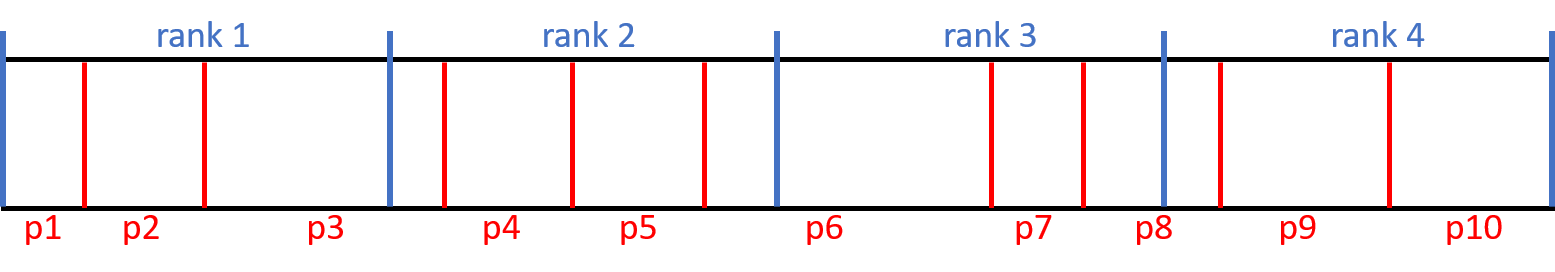
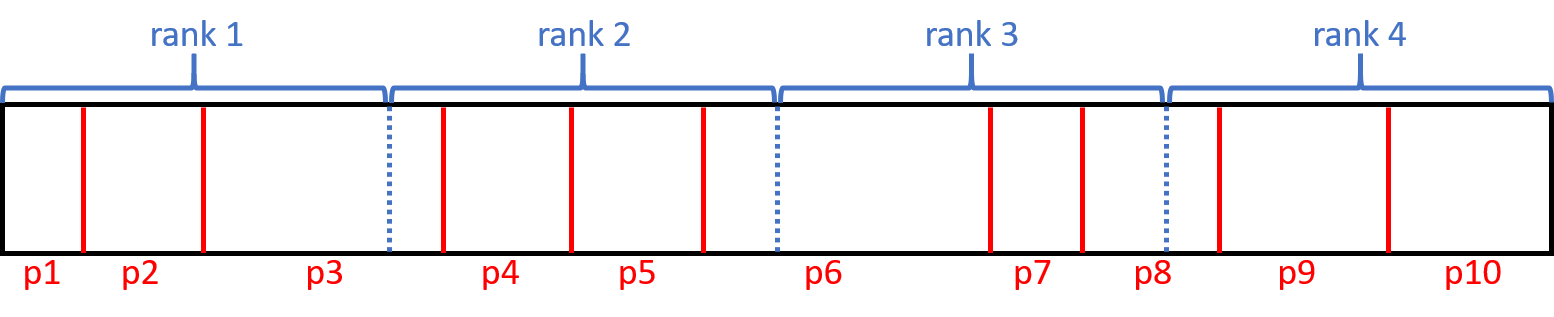
update images

Changed region(s): [[0.0, 0.0588, 1.0, 0.9118]]

diff --git a/docs/_posts/2020-04-15-zero-reduce-scatter.md b/docs/_posts/2020-04-15-zero-reduce-scatter.md
@@ -125,7 +125,7 @@ different way to respect communication boundaries so we can exchange the
 gradients as they become available during training. Below we see an example of
 a partitioning that respects our communication thresholding.
 
-![](/ghpages-test/assets/images/zero_w_comm2.png)
+![](/ghpages-test/assets/images/zero_w_comm.png)
 
 ### Results
 
